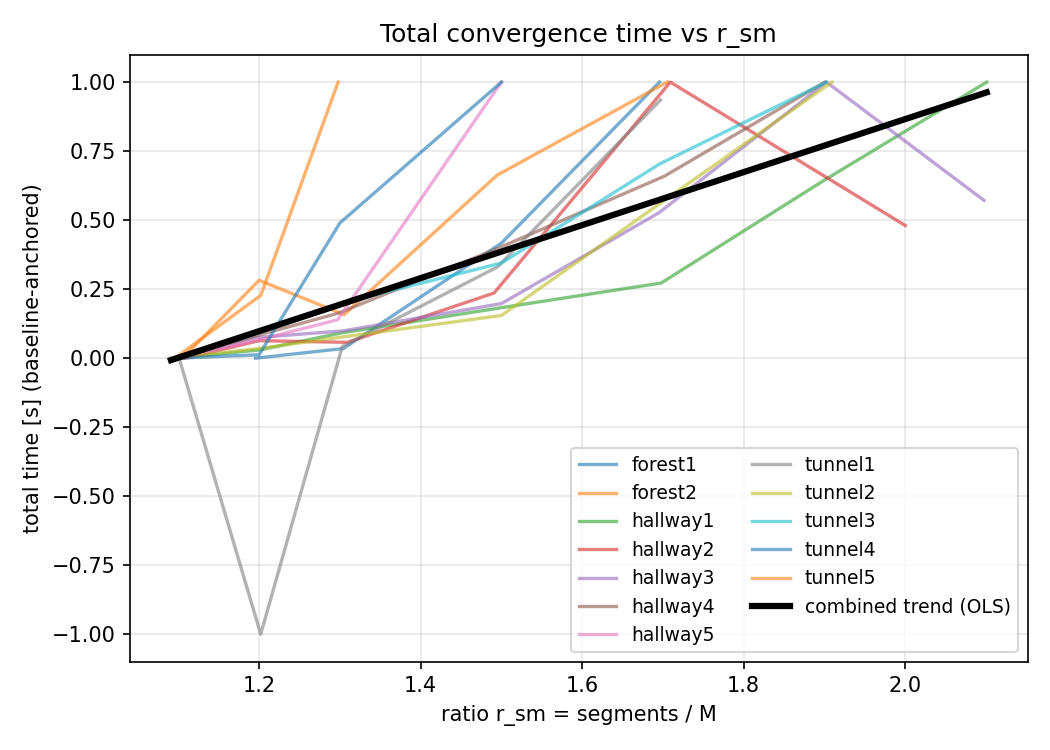
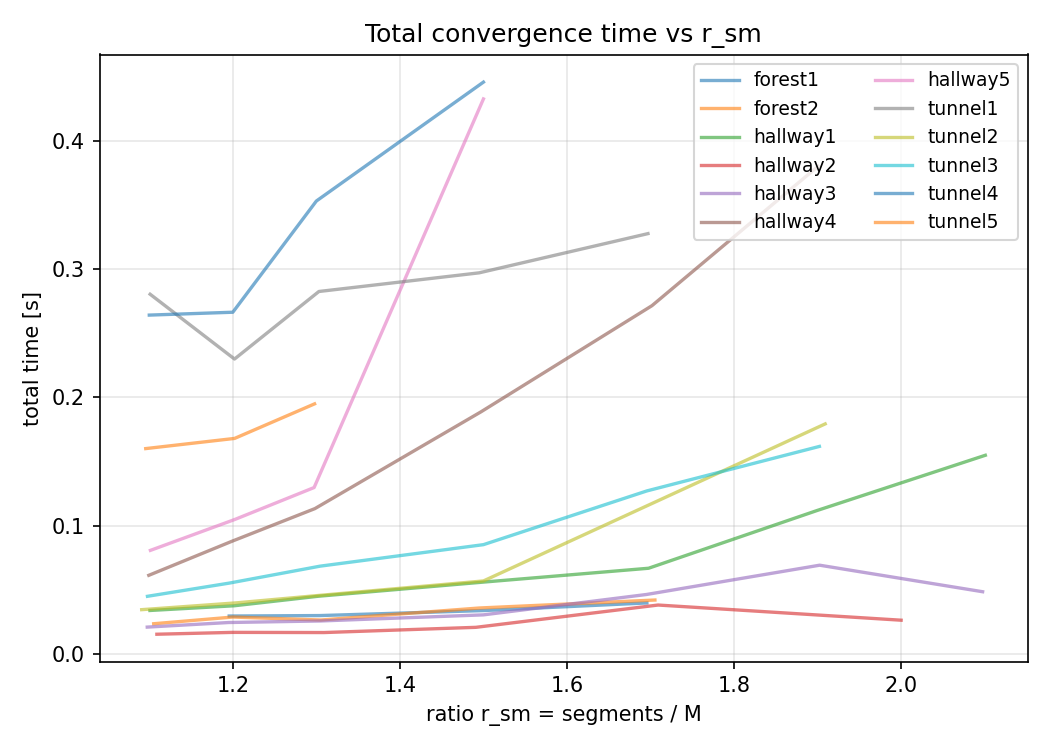
plots

diff --git a/src_test/results/ratio/ratio_plotter.py b/src_test/results/ratio/ratio_plotter.py
@@ -317,33 +317,33 @@ def plot_lines_trend_ratio(per_track_dicts: List[Dict[float, float]],
     # Combined mean + OLS regression (black line)
     # --- Combined trend: mean of all tracks at shared x, then regression ---
     # Build a common x-grid across all tracks
-    all_x = np.unique(np.concatenate([np.fromiter(d.keys(), float) for d in per_track_dicts if d]))
-    if all_x.size >= 2:
-        x_grid = np.linspace(all_x.min(), all_x.max(), 100)
-        y_values = []
+    # all_x = np.unique(np.concatenate([np.fromiter(d.keys(), float) for d in per_track_dicts if d]))
+    # if all_x.size >= 2:
+    #     x_grid = np.linspace(all_x.min(), all_x.max(), 100)
+    #     y_values = []
 
-        # Interpolate each track on the shared grid
-        for d in per_track_dicts:
-            if len(d) < 2:
-                continue
-            X = np.array(sorted(d.keys()), float)
-            Y = np.array([d[x] for x in X], float)
-            # interpolate only where valid
-            mask = (x_grid >= X.min()) & (x_grid <= X.max())
-            yi = np.full_like(x_grid, np.nan, dtype=float)
-            yi[mask] = np.interp(x_grid[mask], X, Y)
-            y_values.append(yi)
+    #     # Interpolate each track on the shared grid
+    #     for d in per_track_dicts:
+    #         if len(d) < 2:
+    #             continue
+    #         X = np.array(sorted(d.keys()), float)
+    #         Y = np.array([d[x] for x in X], float)
+    #         # interpolate only where valid
+    #         mask = (x_grid >= X.min()) & (x_grid <= X.max())
+    #         yi = np.full_like(x_grid, np.nan, dtype=float)
+    #         yi[mask] = np.interp(x_grid[mask], X, Y)
+    #         y_values.append(yi)
 
-        if y_values:
-            Y = np.vstack(y_values)
-            y_mean = np.nanmean(Y, axis=0)
+    #     if y_values:
+    #         Y = np.vstack(y_values)
+    #         y_mean = np.nanmean(Y, axis=0)
 
-            # Fit simple linear regression on mean curve
-            valid = np.isfinite(y_mean)
-            if np.sum(valid) > 1:
-                slope, intercept = np.polyfit(x_grid[valid], y_mean[valid], 1)
-                y_fit = slope * x_grid + intercept
-                ax.plot(x_grid, y_fit, color="k", lw=3.0, label="combined trend (OLS)")
+    #         # Fit simple linear regression on mean curve
+    #         valid = np.isfinite(y_mean)
+    #         if np.sum(valid) > 1:
+    #             slope, intercept = np.polyfit(x_grid[valid], y_mean[valid], 1)
+    #             y_fit = slope * x_grid + intercept
+    #             ax.plot(x_grid, y_fit, color="k", lw=3.0, label="combined trend (OLS)")
 
 
 
@@ -416,7 +416,7 @@ def main():
         ylab="total time [s]",
         title="Total convergence time vs r_sm",
         out_path=os.path.join(out_dir, "total_time_vs_r_sm.png"),
-        normalize=True,
+        normalize = False,
     )
 
     series_curviness_rsm = build_ratio("curviness_ratio", "sm")
@@ -446,7 +446,7 @@ def main():
         ylab="iterations [count]",
         title="Iterations until convergence vs r_sm",
         out_path=os.path.join(out_dir, "iterations_vs_r_sm.png"),
-        normalize=True,
+        normalize=False,
     )
 
     target = "hallway1"   # exact name or substring

diff --git a/src_test/results/ratio/num_seg_plotter.py b/src_test/results/ratio/num_seg_plotter.py
@@ -235,11 +235,11 @@ def plot_lines_trend(per_track_dicts: List[Dict[int, float]],
             ax.plot(X, Y, lw=1.2, alpha=0.6, label=lab)
 
     # Combined OLS regression (black line)
-    Xc, mean = combine_means(per_track_dicts)
-    if Xc.size > 1:
-        slope, intercept = np.polyfit(Xc, mean, 1)
-        y_reg = slope * Xc + intercept
-        ax.plot(Xc, y_reg, color="k", lw=3.0, label="combined OLS trend")
+    # Xc, mean = combine_means(per_track_dicts)
+    # if Xc.size > 1:
+    #     slope, intercept = np.polyfit(Xc, mean, 1)
+    #     y_reg = slope * Xc + intercept
+    #     ax.plot(Xc, y_reg, color="k", lw=3.0, label="combined OLS trend")
 
     ax.set_xlabel("effective segments = max(30, round(ratio * M))")
     ax.set_ylabel(ylab)

diff --git a/src_test/main.py b/src_test/main.py
@@ -1,7 +1,7 @@
 import json
 from execution.runner import run_admm_trajectory_optimization
 
-CONFIG = "tunnel2"
+CONFIG = "forest2"
 
 with open(f"input/configs/{CONFIG}.json", "r") as f:
     config = json.load(f)
